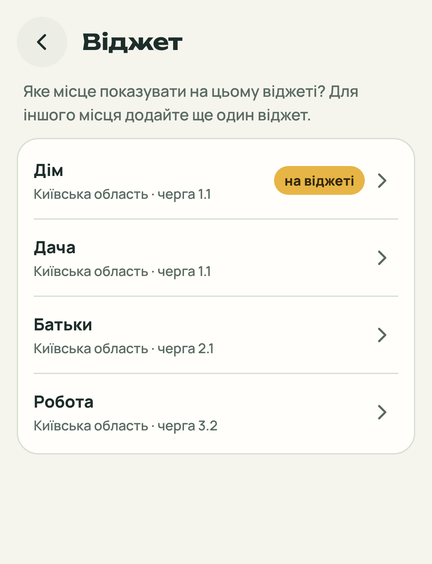
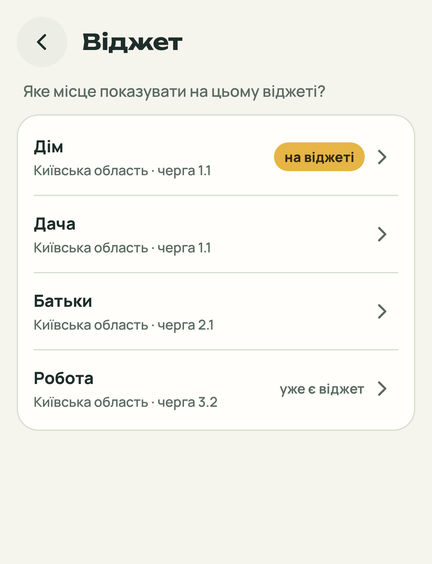
Опис і знімки великого віджета, вибору місця та виділення дат

diff --git a/README.md b/README.md
@@ -93,7 +93,7 @@ Android-застосунок із графіком погодинних відк
 ![Віджети місць у темній і світлій темі](docs/screenshots/widgets.png)
 
 - Свій віджет для кожного місця: лампочка, стан, до котрої години, назва місця.
-- Від 2×1 зі звичними шрифтами й розмірами. У компактному великому віджеті — стан зараз, наступна подія та смуга сьогодні 00–24. Під час додавання є вибір «Малий · 2×1» або «Великий · 4×2».
+- Від 2×1 зі звичними шрифтами й розмірами. Великий віджет заповнює весь простір: стан зараз, наступна подія, скільки сьогодні без світла, вимкнення завтра й смуга сьогодні 00–24. Під час додавання є вибір «Малий · 2×1» або «Великий · 4×2».
 - Оновлюється сам у моменти змін, без відкриття застосунку.
 - [Як додати віджет](#віджети)
 
@@ -168,7 +168,7 @@ Android-застосунок із графіком погодинних відк
 
 - щойно ви додали нове місце, з'являється пропозиція поставити його віджет на головний екран;
 - кнопка віджета в шапці головного екрана — для обраного місця;
-- через список віджетів телефона — окремі варіанти «Малий · 2×1» та «Великий · 4×2», потім вибір місця.
+- через список віджетів телефона — окремі варіанти «Малий · 2×1» та «Великий · 4×2», потім вибір місця; без вибору віджет не додається.
 
 Під час додавання із застосунку також можна одразу вибрати малий або великий віджет. Збільшувати малий вручну не обов'язково; вже додані віджети продовжують працювати.
 

diff --git a/ARCHITECTURE.md b/ARCHITECTURE.md
@@ -141,6 +141,8 @@ Store (SharedPreferences `feed`: json_/etag_/url_/checked_<область>) → 
   масштабує.
 
 - `LightWidget` зберігає попередню ідентичність малого/resizable віджета; `LargeLightWidget` додає окремий варіант 4×2 у picker. Обидва використовують спільні рендер, конфігурацію, періодичне оновлення й перелік `Widgets.ids`; попередні id/вибір місця не змінюються.
+- Великий віджет (`WidgetArt.large`): назва й підсумок сьогодні, дві колонки зі спільними рядками, рядок про завтра (`Logic.widgetTomorrow`), смуга. Розміри тексту випливають із доступного простору; подробиця стоїть поруч із часом, якщо так шрифт більший, інакше окремим рядком. Рядок про завтра не показується, коли права колонка вже це каже.
+- Новий віджет не має `w_<id>`: екран вибору (`WidgetSetupActivity`, `Logic.widgetMark`) не позначає місце «на віджеті», а показує, для яких місць віджет уже є. Лаунчер залишає віджет лише за `RESULT_OK`, тому результат повертається до перемальовування.
 - Місце віджета зберігається як `w_<id віджета>`; не обране — перше місце; видалене — на віджеті
   «Місце видалено» й підказка утримати його, щоб обрати інше (`Logic.widgetPlace`).
 - Натискання на віджет відкриває саме його місце (`MainActivity.EXTRA_PLACE`).

diff --git a/CHANGELOG.md b/CHANGELOG.md
@@ -9,7 +9,10 @@
 
 ### 🔧 Змінено
 
-- Яскравіша лампочка, чіткіше розрізнення станів і вирівняний час у великому віджеті.
+- Яскравіша лампочка й чіткіше розрізнення станів.
+- Великий віджет використовує весь простір: більші шрифти, скільки сьогодні без світла, вимкнення завтра.
+- Повідомлення про відсутній графік і час його оновлення виділені кольором.
+- «Поділитися» веде на сайт застосунку.
 - Зрозуміліші підказки, підтвердження видалення місця й зміни черги, кнопка «Оновити».
 - Фонова робота враховує доступність мережі та спільні запити до області.
 
@@ -17,7 +20,7 @@
 
 - Оновлення графіка Вінниччини із живого джерела, неповні й застарілі графіки.
 - Нагадування опівночі, запізнілі події та повідомлення після зміни графіка.
-- Позначення завтрашньої події в компактному великому віджеті.
+- Вибір місця під час додавання другого віджета зі списку віджетів телефона.
 
 ## 1.5.1 — 2026-11-01
 
